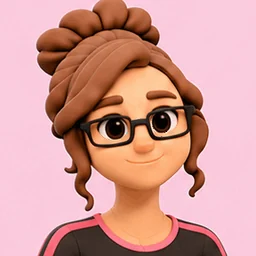
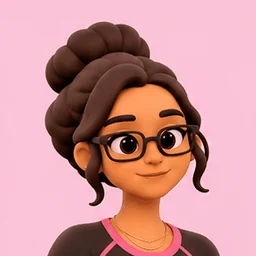
Kiru colour redo: gym idle/wave in kiru-v2 colours
Claude-Session: https://claude.ai/code/session_01M9MLSzTgGmRpDx4quWz9qx

diff --git a/design/gen/status.md b/design/gen/status.md
@@ -154,8 +154,8 @@ Generated in ChatGPT, checked frame by frame, converted to 256x256 animated WebP
 | kiru/home2/tv | done | 1 | colour redo Nov 19 (sprite sheet, kiru-v2 colours): sofa behind; ONE remote, same hand (frames 0-6, then lowered below the frame); small white click lines in frame 4; chuckle frames 8-12 |
 | kiru/home2/phone | done | 1 | colour redo Nov 19 (sprite sheet, kiru-v2 colours): ONE phone, same hand in every frame; looks down then laughs up (head moves up to 10 px, sheet as drawn); small white sparkle lines in frames 5 and 7 |
 | kiru/home2/sleep | done | 1 | colour redo Nov 19 (sprite sheet, kiru-v2 colours): asleep on a pillow with glasses on, pink blanket; round bubbles frames 5-11 |
-| kiru/gym/idle | done | 0 | Kiru v2 look; frames 10-11 jumped 5-6 px; re-aligned and cropped |
-| kiru/gym/wave | done | 0 | Kiru v2 look |
+| kiru/gym/idle | done | 1 | colour redo Nov 19 (sprite sheet, kiru-v2 colours): retry 2 (first came out as a tank top): black sports t-shirt with pink trims; aligned to frame 0 (sheet drifted up to 7 px); two blinks |
+| kiru/gym/wave | done | 1 | colour redo Nov 19 (sprite sheet, kiru-v2 colours): retry 2 (first came out as a tank top): black sports t-shirt with pink trims; same hand waves on the left; white motion lines frames 4-6; two blinks |
 | kiru/gym/workout | done | 0 | Kiru v2 look; bounce moves the head up to 8 px (intended) |
 | kiru/party/idle | done | 0 | Kiru v2 look |
 | kiru/party/wave | done | 0 | Kiru v2 look; small white motion lines by the hand; 4 px edge trim for a bottom strip |
@@ -189,8 +189,8 @@ Reference measurements (tools: /tmp/tools/colour.py; median Lab over sampled fra
 
 | item | state | skin dE | hair dE | note |
 |---|---|---|---|---|
-| kiru/gym/idle | pending |  |  | old: skin dE 14.6 hair dE 23.4 |
-| kiru/gym/wave | pending |  |  | old: skin dE 14.1 hair dE 22.3 |
+| kiru/gym/idle | done | 2.5 | 4.1 | retry 2 (first came out as a tank top): black sports t-shirt with pink trims; aligned to frame 0 (sheet drifted up to 7 px); two blinks |
+| kiru/gym/wave | done | 3.8 | 3.1 | retry 2 (first came out as a tank top): black sports t-shirt with pink trims; same hand waves on the left; white motion lines frames 4-6; two blinks |
 | kiru/gym/workout | pending |  |  | old: skin dE 13.8 hair dE 24.1 |
 | kiru/home/cook | done | 1.3 | 1.6 | ONE wooden spoon in the same hand at the bottom edge, pot below the frame, faint steam on the right |
 | kiru/home/idle | done | 6.2 | 3.6 | pink floral nighty; blink frames 4-9; stable framing |
